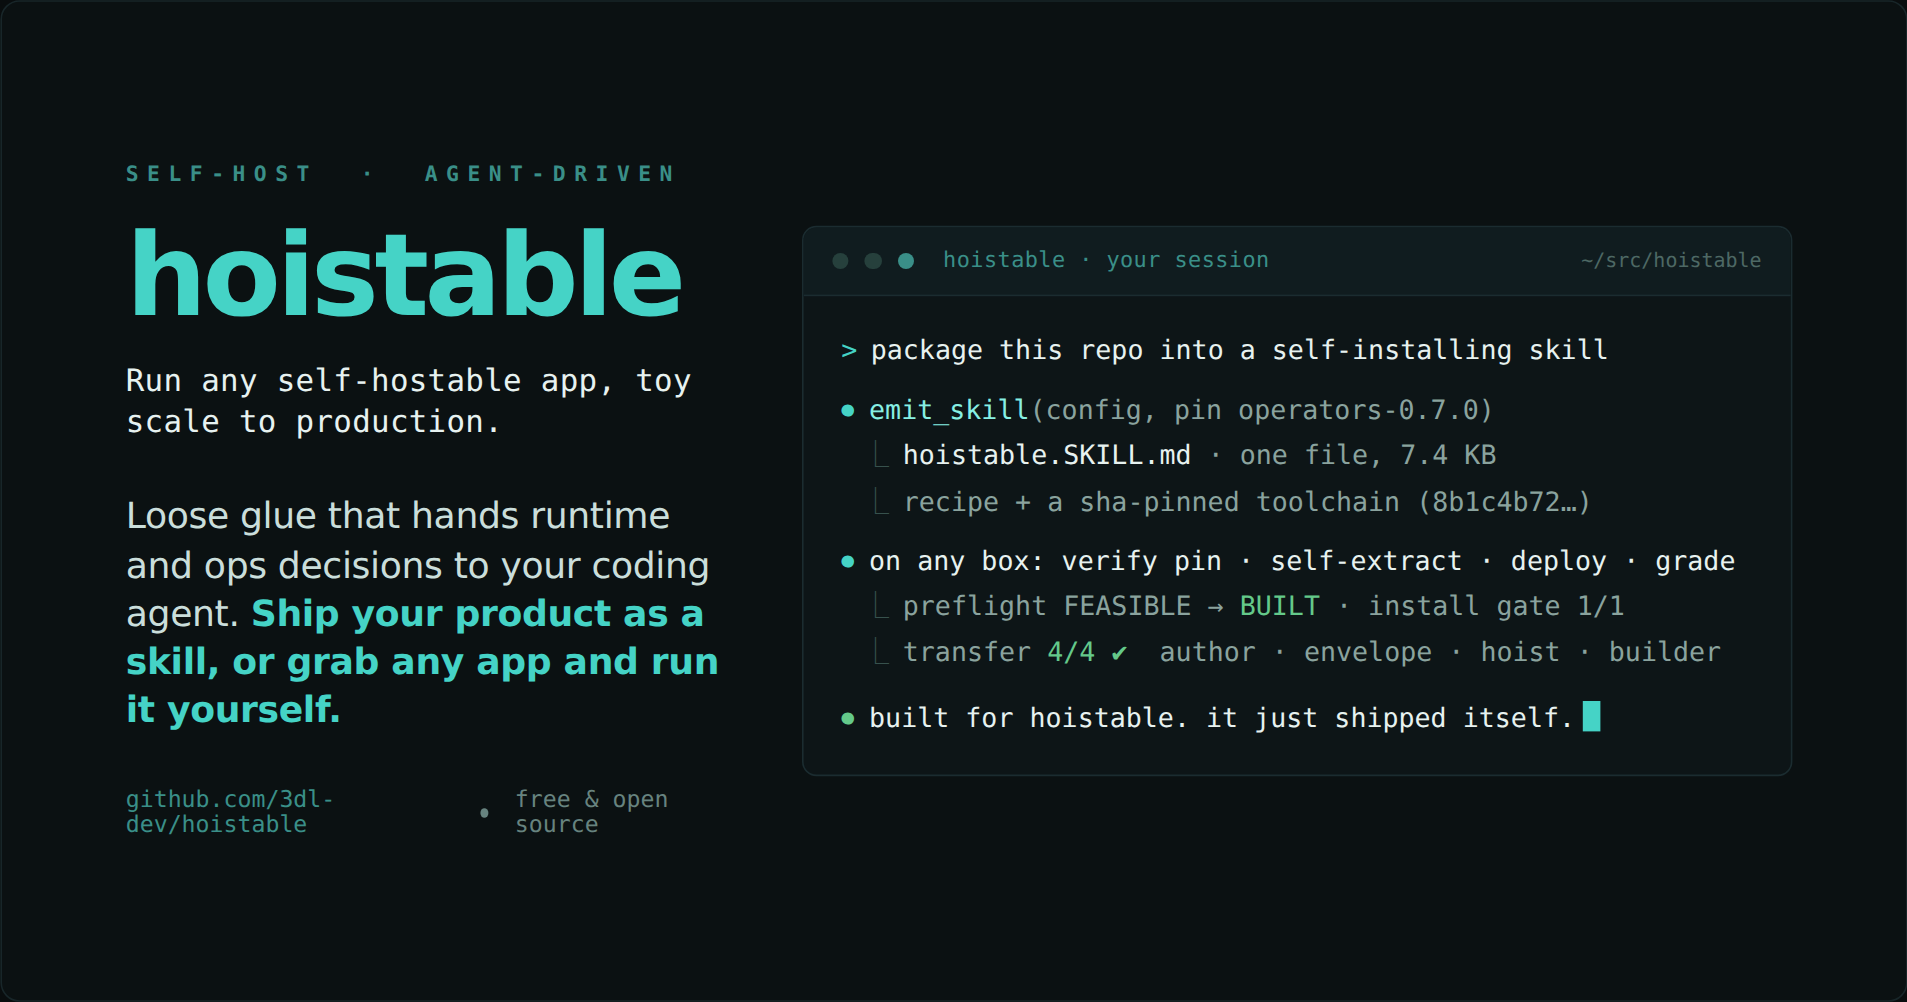
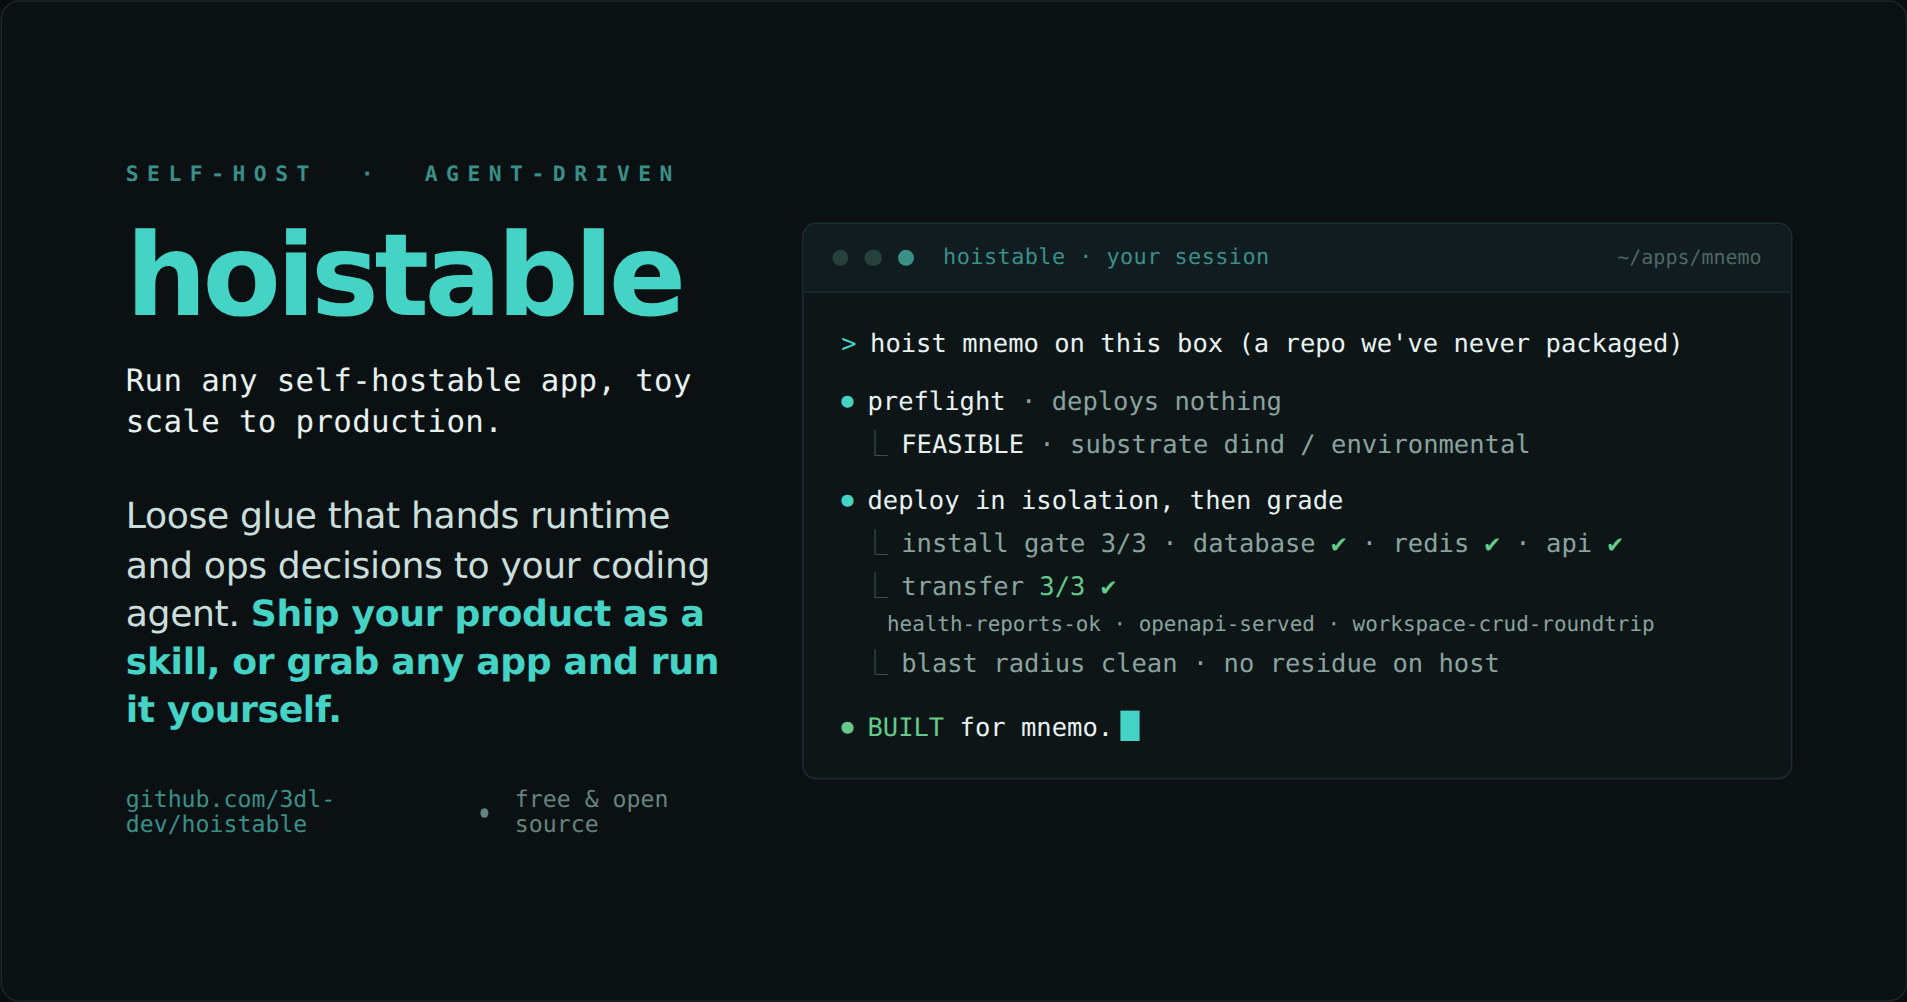
docs: hero grounded in a real hoist of an external app (honcho), anonymized to mnemo
Captured the actual output of hoisting a real third-party app we've never packaged:
cloned it, resolved dind/environmental isolation, brought up database+redis+api, ran real
API acceptance (health, openapi, workspace CRUD roundtrip), scored install gate 3/3 and
transfer 3/3, left the host clean (blast radius clean), BUILT, in 65s. Swapped the app
name to a distinct non-trademark codename (mnemo); every structural detail is the real
report. This is the depth the earlier hand-authored panels faked. Static + animated both
regenerated from it.

diff --git a/docs/hoistable-hero.html b/docs/hoistable-hero.html
@@ -66,7 +66,7 @@
   .bar .who{margin-left:.6cqw;font-size:1.15cqw;color:var(--teal-dim);letter-spacing:.02em}
   .bar .stat{margin-left:auto;font-size:1.05cqw;color:#4d6864}
 
-  .body{padding:1.9cqw 2cqw 1.9cqw; font-size:1.4cqw; line-height:1.5}
+  .body{padding:1.7cqw 2cqw 1.7cqw; font-size:1.34cqw; line-height:1.46}
   .q{color:var(--cream); margin-top:1.35cqw}
   .q:first-child{margin-top:0}
   .q .p{color:var(--teal); margin-right:.7cqw}
@@ -76,6 +76,8 @@
   .call .arg{color:var(--faint)}
   .res{color:var(--faint); margin-top:.28cqw; padding-left:1.1cqw}
   .res .b{color:#37514d; margin-right:.7cqw}
+  .sub{color:var(--faint); margin-top:.26cqw; padding-left:2.4cqw; font-size:.82em}
+  .kw{color:var(--cream)}
   .ok{color:var(--ok)}
   .warn{color:var(--warn)}
   .sha{color:var(--cream)}
@@ -111,20 +113,21 @@
           <div class="bar">
             <span class="led"></span><span class="led"></span><span class="led on"></span>
             <span class="who">hoistable · your session</span>
-            <span class="stat">~/src/hoistable</span>
+            <span class="stat">~/apps/mnemo</span>
           </div>
           <div class="body">
-            <div class="q"><span class="p">&gt;</span>package this repo into a self-installing skill</div>
+            <div class="q"><span class="p">&gt;</span>hoist mnemo on this box <span class="arg">(a repo we've never packaged)</span></div>
 
-            <div class="call"><span class="m">⏺</span><span class="fn">emit_skill</span><span class="arg">(config, pin operators-0.7.0)</span></div>
-            <div class="res"><span class="b">⎿</span><span class="sha">hoistable.SKILL.md</span> · one file, 7.4 KB</div>
-            <div class="res"><span class="b">⎿</span>recipe + a sha-pinned toolchain <span class="arg">(8b1c4b72…)</span></div>
+            <div class="call"><span class="m">⏺</span>preflight <span class="arg">· deploys nothing</span></div>
+            <div class="res"><span class="b">⎿</span><span class="kw">FEASIBLE</span> · substrate dind / environmental</div>
 
-            <div class="call"><span class="m">⏺</span>on any box: verify pin · self-extract · deploy · grade</div>
-            <div class="res"><span class="b">⎿</span>preflight FEASIBLE → <span class="ok">BUILT</span> · install gate 1/1</div>
-            <div class="res"><span class="b">⎿</span>transfer <span class="ok">4/4</span> <span class="ok">✔</span> &nbsp;author · envelope · hoist · builder</div>
+            <div class="call"><span class="m">⏺</span>deploy in isolation, then grade</div>
+            <div class="res"><span class="b">⎿</span>install gate 3/3 · database <span class="ok">✔</span> · redis <span class="ok">✔</span> · api <span class="ok">✔</span></div>
+            <div class="res"><span class="b">⎿</span>transfer <span class="ok">3/3</span> <span class="ok">✔</span></div>
+            <div class="sub">health-reports-ok · openapi-served · workspace-crud-roundtrip</div>
+            <div class="res"><span class="b">⎿</span>blast radius clean · no residue on host</div>
 
-            <div class="win"><span class="m">⏺</span>built for hoistable. it just shipped itself.<span class="cur"></span></div>
+            <div class="win"><span class="m">⏺</span><span class="ok">BUILT</span> for mnemo.<span class="cur"></span></div>
           </div>
         </div>
       </div>

diff --git a/README.md b/README.md
@@ -1,6 +1,6 @@
 # Hoistable
 
-![hoistable: package a repo into a self-installing skill that verifies, deploys, and grades itself on any box](docs/hoistable-hero-anim.png)
+![hoistable: hand your coding agent any self-hostable app and it brings it up in isolation, proves it with real checks, and leaves your host clean](docs/hoistable-hero-anim.png)
 
 Hand your software to someone and have it actually run on their machine.
 
